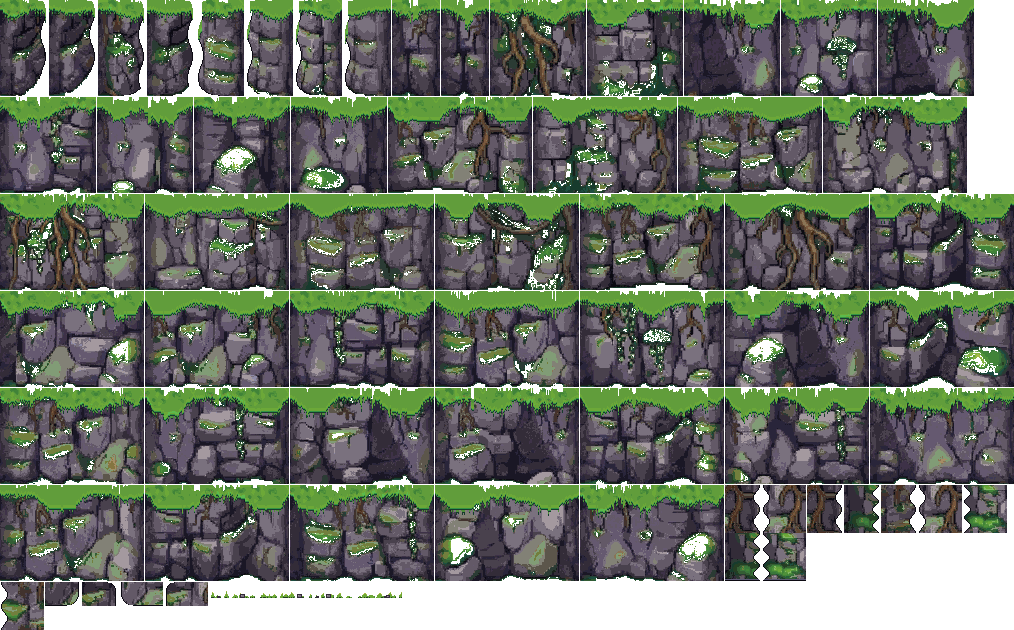
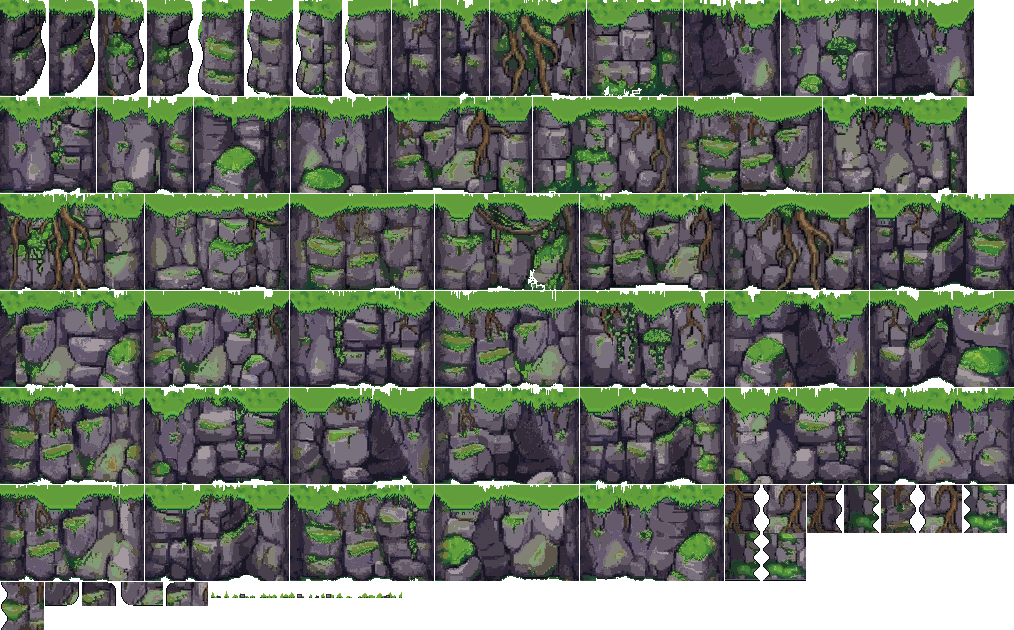
Companion terrain: the faces' and caps' enclosed key holes filled with lawn, so a face reads the same over any ground; the palette and Companion READMEs name the meadow set; meadow.json no longer names a tool main lacks (built on art-terrain-grass b46313c1)

diff --git a/art/companion-48/palette/README.md b/art/companion-48/palette/README.md
@@ -1,6 +1,6 @@
 # The Companion's 48 colours: the signed palette file
 
-**Signed by the art director, 2026-10-08.** This is the one palette every Companion sheet is indexed to ([companion-48px-redraw.md §4](../../../design/proposals/companion-48px-redraw.md), [ui-kit §2](../../../design/proposals/ui-kit.md)). It is read from the Companion page's own `PALETTE`, `DARK_OF` and `LIGHT_OF` (`prototypes/exploration/index.html`), so the sheets and the page can never disagree; nothing is added.
+**Signed by the art director, 2026-10-08.** This is the core palette. Every Companion sheet is indexed to it, except a biome's terrain sheets: those are indexed to these 48, unchanged at 0–47, plus that biome's own set after them, under the owner's 8-bit ruling of 2026-10-10. The meadow's set is [`../terrain/meadow/meadow-palette.json`](../terrain/meadow/meadow-palette.json). ([companion-48px-redraw.md §4](../../../design/proposals/companion-48px-redraw.md), [ui-kit §2](../../../design/proposals/ui-kit.md)). It is read from the Companion page's own `PALETTE`, `DARK_OF` and `LIGHT_OF` (`prototypes/exploration/index.html`), so the sheets and the page can never disagree; nothing is added to these 48.
 
 - [`palette.json`](palette.json): the 48 colours (index, name, hex, rgb), the tables **DARK**, **LIGHT**, **DARK2**, **FOG** and **FADE** as index lookups computed by the page's own rule (`mixLUT` toward bone at .62 and stone at .5 with the page's 3/4/2 weighted nearest colour), the 4×4 Bayer matrix, and the three rules (outline, blend, characters).
 - [`palette.png`](palette.png): the 48 colours as a 48×1 indexed PNG, the `input_palette` for Retro Diffusion and the palette of every atlas.

diff --git a/art/companion-48/README.md b/art/companion-48/README.md
@@ -3,6 +3,7 @@
 The pixel masters for the Companion at 48 px tiles, per [`design/proposals/companion-48px-redraw.md`](../../design/proposals/companion-48px-redraw.md).
 
 - [`palette/`](palette/README.md): the 48 colours, identical to the page's `PALETTE`, with the shade, dither and mix tables, signed.
+- [`terrain/meadow/`](terrain/meadow/meadow.json): the meadow terrain drop for the 48 px places. It holds six 8-bit indexed sheets, `meadow.json` (each piece signed or candidate, with its offset) and `meadow-palette.json` (the core 48, then the meadow's 48, with their tables). It is built from the tileset candidates on branch `art-terrain-grass`, so main ships the result only.
 - [`review-place/`](review-place/README.md): round 1, the meadow and pond edge in a storm, every piece at 1× as indexed sheets with atlases, contact sheets and a composed still.
 - [`type/`](type/README.md): the Mibi 7×9 bitmap face as a master glyph sheet (text source, indexed PNG, JSON atlas, contact sheets at 1×, 2× and 3×), built by `tools/build-mibi.py`. Signed by the art director, 2026-10-08.
 - [`tools/`](tools/): the palette loader, the down-render pipeline (key, crop, resize, quantise, despeckle, outline), the scripted pieces, the packer, the checks and the still composer. Run with `python3 -I`.
